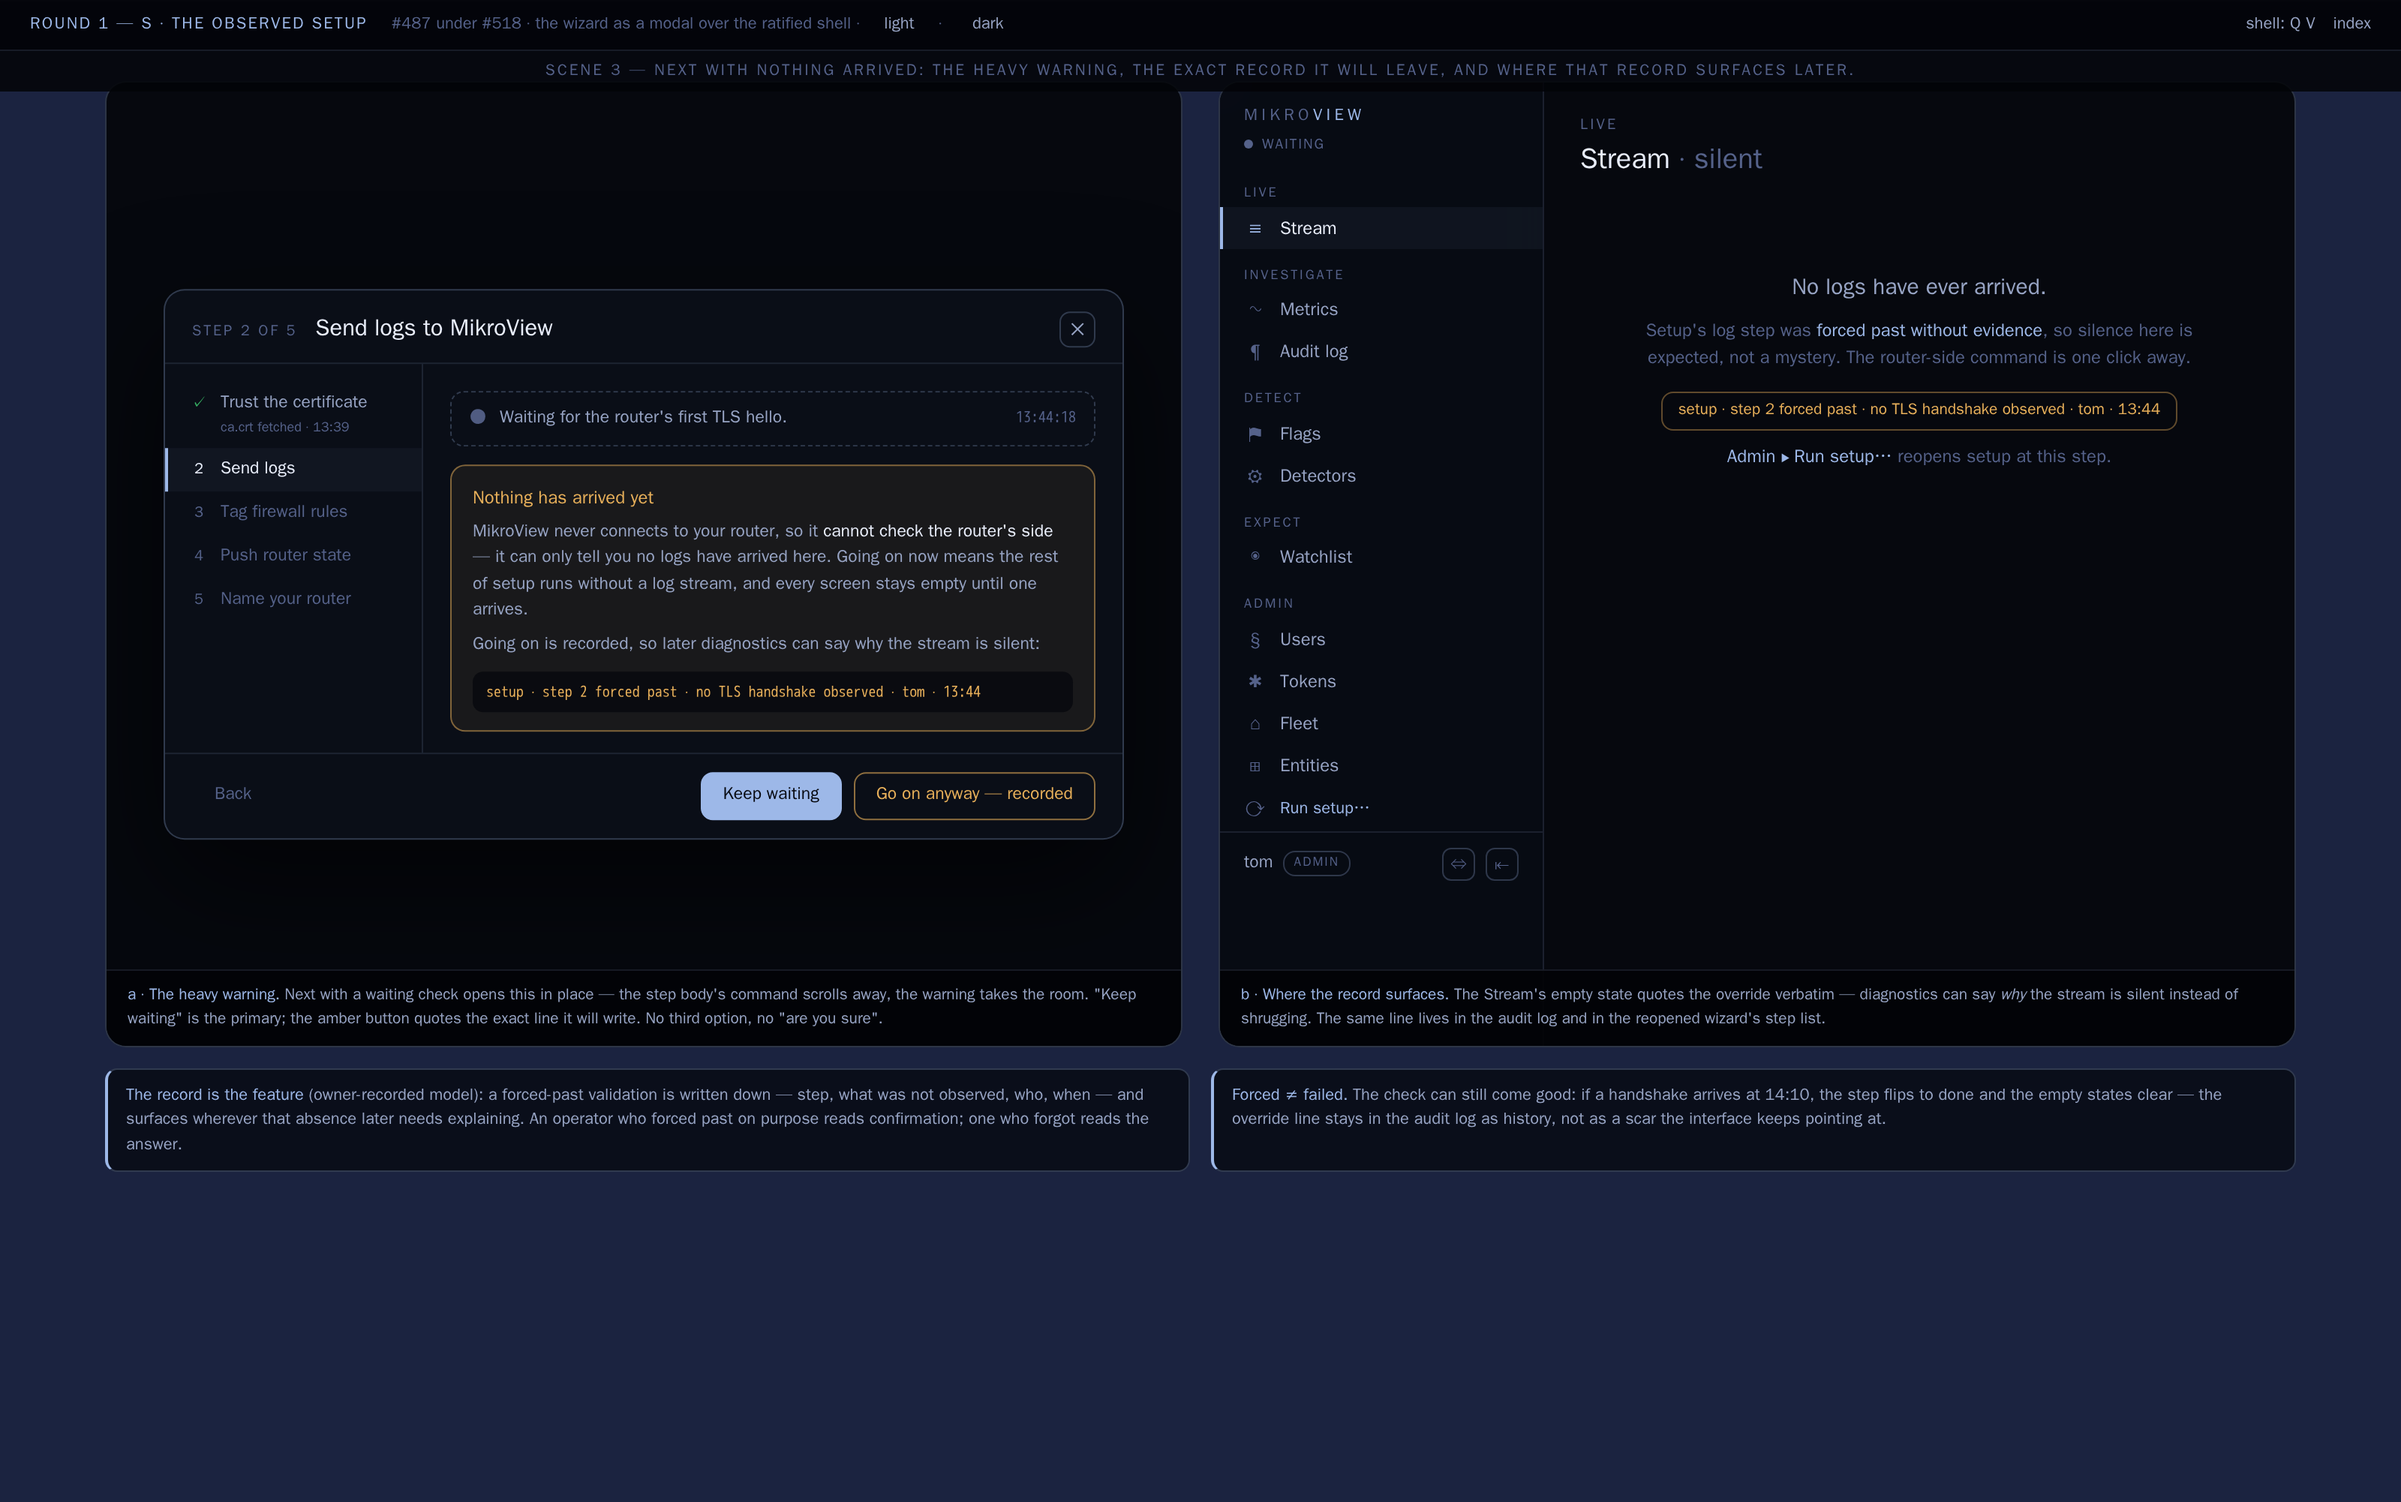
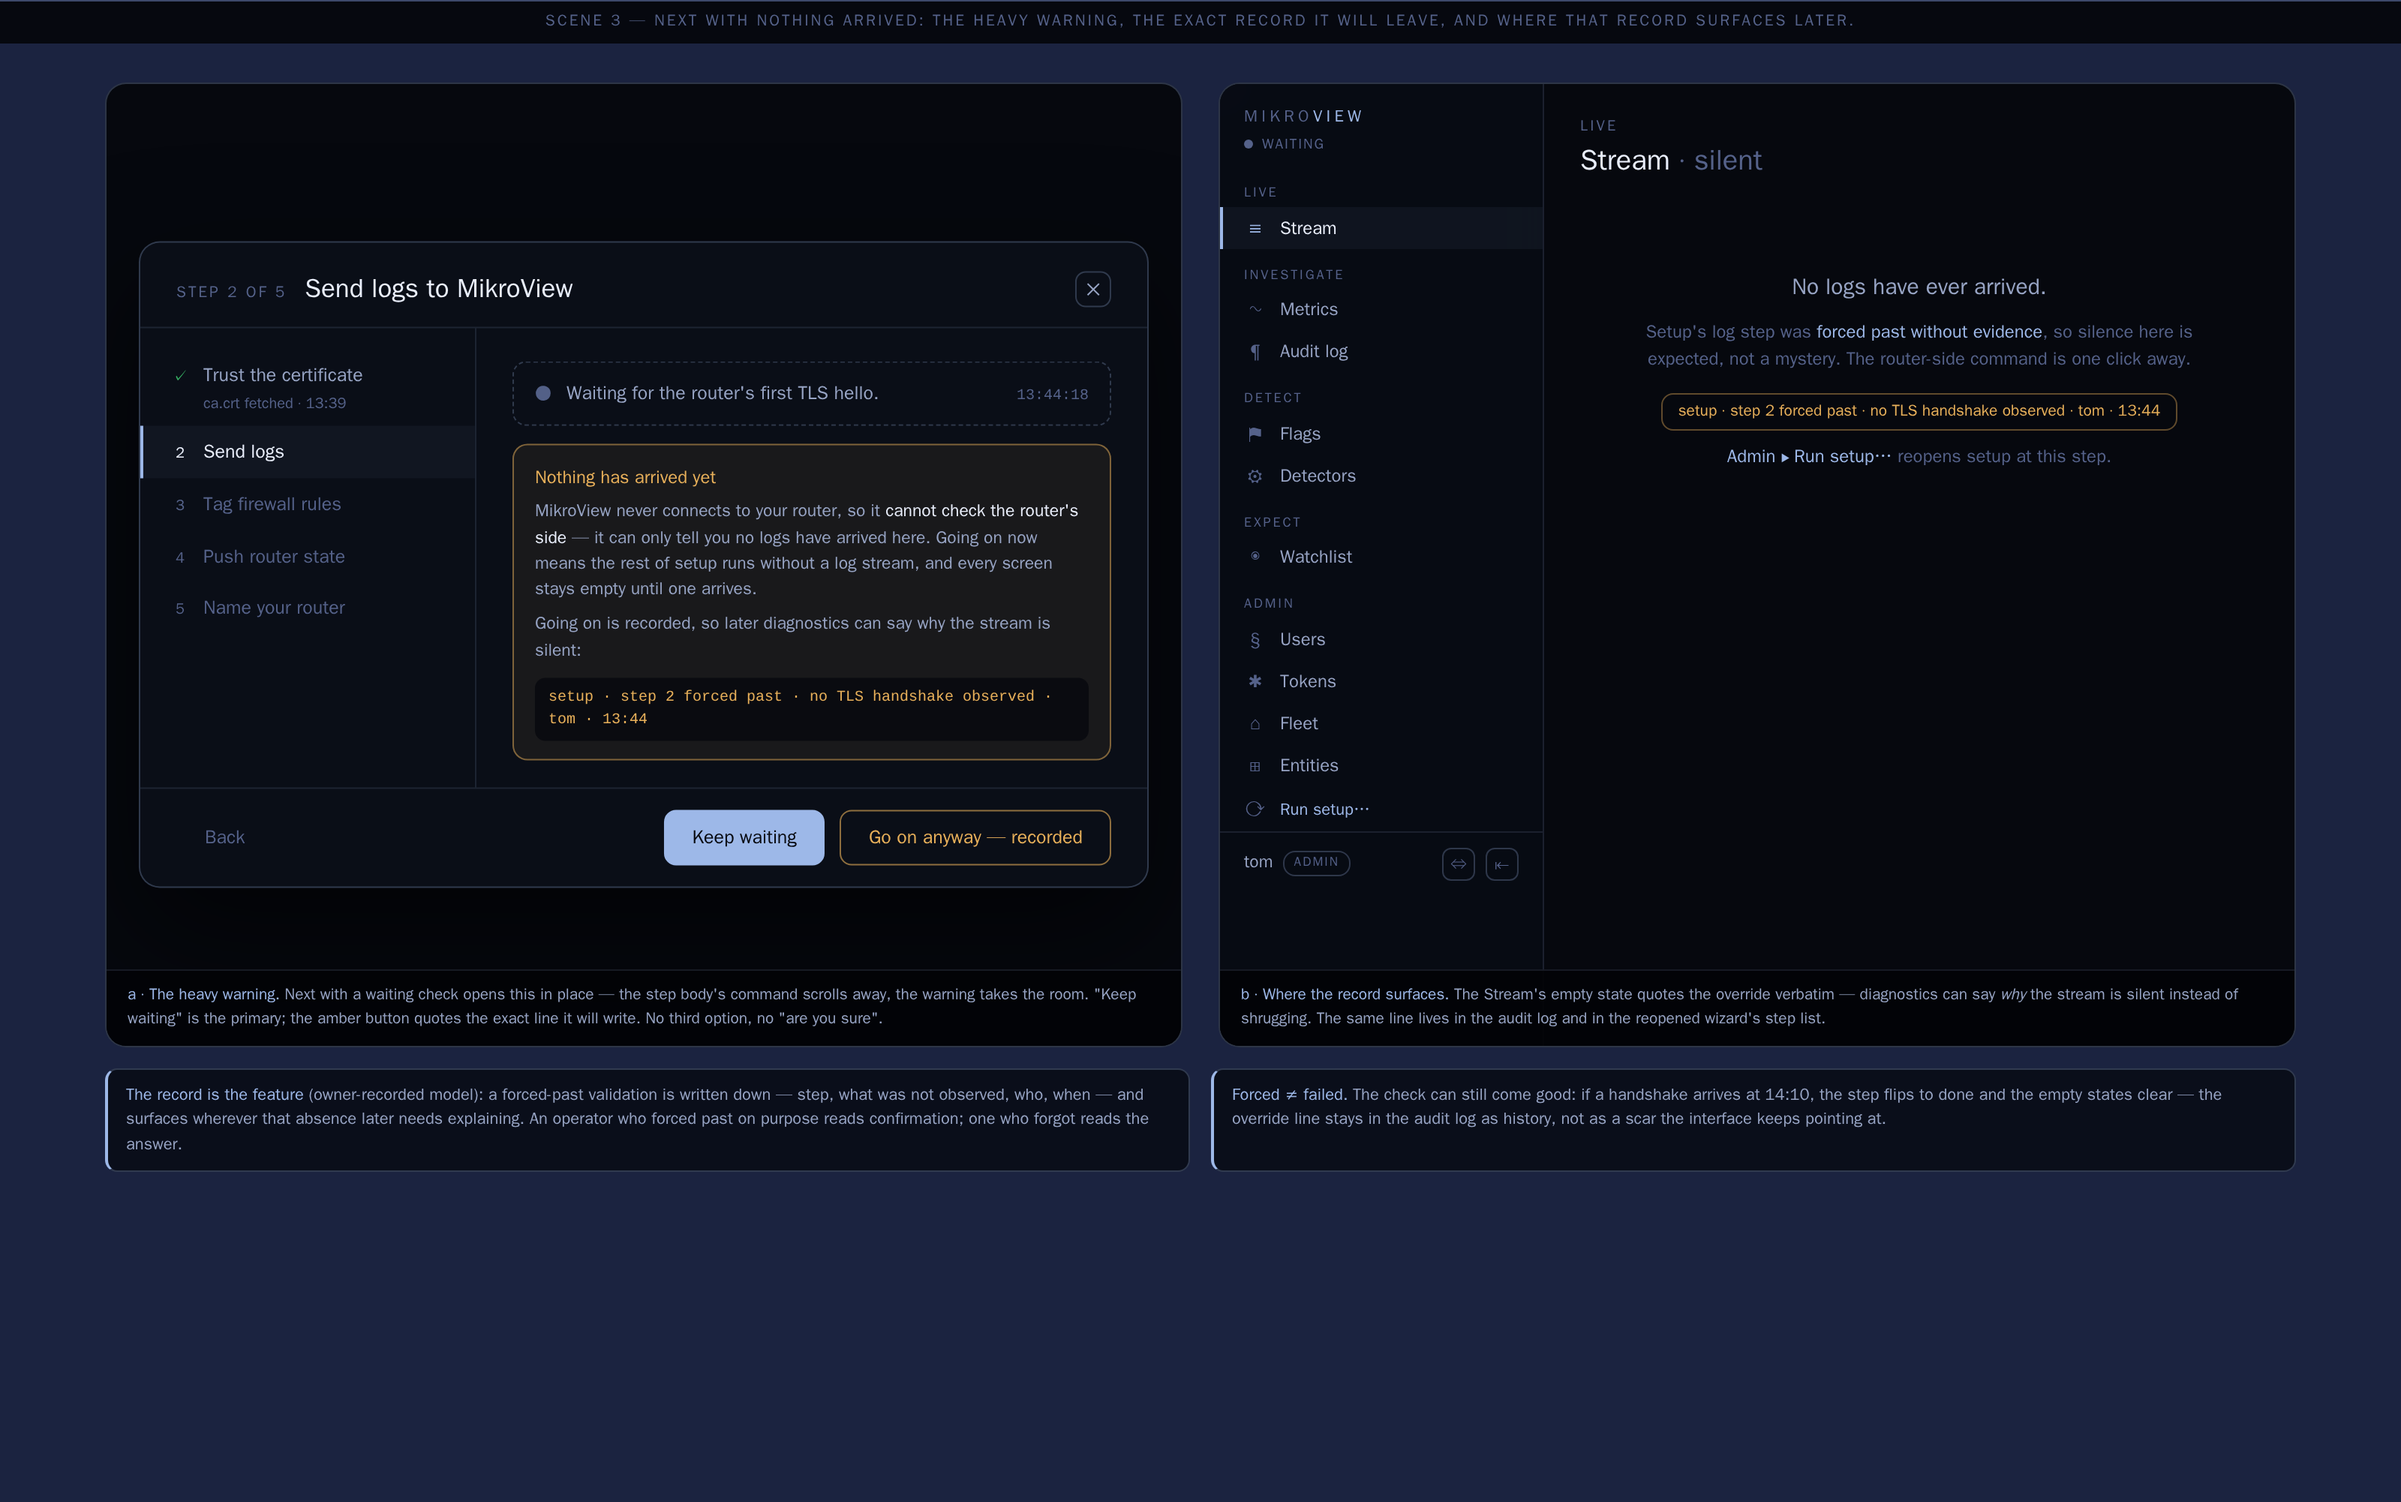
Wizard round 1: record the verdict, grow the modal (#487)
Owner accepted direction S with a size correction — use more of the
screen. Modal 640px -> 940px, wider step list, type and spacing up;
scene 2 rearranged (two frames plus a full-width third) so the close-
ups keep room; capture pins the sticky bars during shots. Verdict
verbatim in the round README.

diff --git a/docs/design/screens/wizard/round-1/direction-s-wizard.html b/docs/design/screens/wizard/round-1/direction-s-wizard.html
@@ -105,33 +105,33 @@
   .veil { position: absolute; inset: 0; background: rgba(3, 5, 10, 0.62); z-index: 20; backdrop-filter: blur(2.5px); }
   .wiz {
     position: absolute; z-index: 25; left: 50%; top: 50%; transform: translate(-50%, -50%);
-    width: min(640px, 92%); max-height: 88%; display: flex; flex-direction: column;
+    width: min(940px, 94%); max-height: 92%; display: flex; flex-direction: column;
     background: rgba(10, 14, 24, 0.97); border: 1px solid var(--hair-2); border-radius: 14px;
     box-shadow: 0 30px 80px rgba(0,0,0,0.6);
   }
-  .wiz .whead { display: flex; align-items: baseline; gap: 12px; padding: 14px 18px 10px; border-bottom: 1px solid var(--hair); }
-  .wiz .whead .step { font-size: 10px; letter-spacing: 0.14em; text-transform: uppercase; color: var(--ink-3); font-weight: 650; }
-  .wiz .whead h3 { font-size: 15.5px; font-weight: 600; }
+  .wiz .whead { display: flex; align-items: baseline; gap: 12px; padding: 18px 24px 12px; border-bottom: 1px solid var(--hair); }
+  .wiz .whead .step { font-size: 10.5px; letter-spacing: 0.14em; text-transform: uppercase; color: var(--ink-3); font-weight: 650; }
+  .wiz .whead h3 { font-size: 17.5px; font-weight: 600; }
   .wiz .whead .x { margin-left: auto; align-self: center; width: 24px; height: 24px; border: 1px solid var(--hair-2); border-radius: 7px; display: grid; place-items: center; color: var(--ink-2); font-size: 12px; }
   .wbody { display: flex; min-height: 0; flex: 1; }
-  .wsteps { width: 172px; flex: none; border-right: 1px solid var(--hair); padding: 12px 0; }
-  .ws { display: flex; gap: 8px; align-items: baseline; padding: 6px 14px; font-size: 11.5px; color: var(--ink-3); border-left: 2px solid transparent; }
+  .wsteps { width: 224px; flex: none; border-right: 1px solid var(--hair); padding: 14px 0; }
+  .ws { display: flex; gap: 9px; align-items: baseline; padding: 8px 18px; font-size: 12.5px; color: var(--ink-3); border-left: 2px solid transparent; }
   .ws .st { width: 13px; flex: none; text-align: center; font-size: 10px; }
   .ws.done { color: var(--ink-2); } .ws.done .st { color: var(--ok); }
   .ws.on { color: var(--ink); border-left-color: var(--accent); background: rgba(157,184,232,0.05); }
   .ws.forced { color: var(--ink-2); } .ws.forced .st { color: var(--warn); }
   .ws.skipped .st { color: var(--ink-3); }
-  .ws .sub { display: block; font-size: 9px; color: var(--ink-3); margin-top: 1px; }
+  .ws .sub { display: block; font-size: 10px; color: var(--ink-3); margin-top: 1px; }
   .ws.forced .sub { color: var(--warn); }
-  .wmain { flex: 1; padding: 16px 18px 14px; min-width: 0; overflow: hidden; }
-  .wmain .lead { font-size: 12.5px; color: var(--ink-2); }
+  .wmain { flex: 1; padding: 20px 24px 18px; min-width: 0; overflow: hidden; }
+  .wmain .lead { font-size: 13.5px; color: var(--ink-2); }
   .wmain .lead b { color: var(--ink); font-weight: 600; }
-  .cmd { font: 10.5px/1.6 var(--mono); color: var(--ink-2); background: rgba(4,6,11,0.9); border: 1px solid var(--hair); border-radius: 9px; padding: 10px 12px; margin-top: 10px; overflow-x: auto; white-space: pre; }
+  .cmd { font: 11.5px/1.65 var(--mono); color: var(--ink-2); background: rgba(4,6,11,0.9); border: 1px solid var(--hair); border-radius: 9px; padding: 12px 14px; margin-top: 12px; overflow-x: auto; white-space: pre; }
   .cmd .cm { color: var(--ink-3); }
   .cmd .hi { color: var(--accent); }
   .copy { font-size: 10px; color: var(--ink-2); border: 1px solid var(--hair-2); border-radius: 6px; padding: 2px 8px; margin-top: 7px; display: inline-block; }
   /* the observation line — the step's evidence, always visible, always dated */
-  .obs { display: flex; gap: 9px; align-items: baseline; margin-top: 12px; padding: 9px 12px; border-radius: 9px; font-size: 11.5px; }
+  .obs { display: flex; gap: 10px; align-items: baseline; margin-top: 14px; padding: 11px 14px; border-radius: 9px; font-size: 12.5px; }
   .obs .st { flex: none; font-size: 11px; }
   .obs.waiting { border: 1px dashed var(--hair-2); color: var(--ink-2); }
   .obs.waiting .st { color: var(--ink-3); animation: pulse 2s ease-in-out infinite; }
@@ -145,8 +145,8 @@
   .warncard p { font-size: 11.5px; color: var(--ink-2); margin-top: 6px; }
   .warncard p b { color: var(--ink); font-weight: 600; }
   .warncard .rec { font-family: var(--mono); font-size: 10px; color: var(--warn); background: rgba(4,6,11,0.7); border-radius: 7px; padding: 6px 9px; margin-top: 9px; }
-  .wfoot { display: flex; gap: 8px; align-items: center; padding: 12px 18px; border-top: 1px solid var(--hair); }
-  .btn { font-size: 11.5px; font-weight: 600; border-radius: 8px; padding: 6px 14px; border: 1px solid var(--hair-2); color: var(--ink-2); }
+  .wfoot { display: flex; gap: 10px; align-items: center; padding: 14px 24px; border-top: 1px solid var(--hair); }
+  .btn { font-size: 12.5px; font-weight: 600; border-radius: 8px; padding: 8px 18px; border: 1px solid var(--hair-2); color: var(--ink-2); }
   .btn.primary { background: var(--accent); color: var(--void); border-color: var(--accent); }
   .btn.ghost { border-color: transparent; color: var(--ink-3); }
   .btn.warn { border-color: rgba(232,176,90,0.6); color: var(--warn); }
@@ -318,7 +318,8 @@
       </div>
       <div class="cap"><b>b · Arrived.</b> The same step, evidence in: who, what, when. The step list will remember the receipt ("ca.crt fetched · 13:39") for the rest of the wizard's life — and Next simply proceeds.</div>
     </div>
-    <div class="frame">
+  </div>
+  <div class="frame wide">
       <div class="main">
         <div class="wiz">
           <div class="whead"><span class="step">Step 4 of 5</span><h3>Push router state</h3><span class="x" role="button" aria-label="Close setup — finish later from Admin ▸ Run setup…">✕</span></div>
@@ -348,7 +349,6 @@
         </div>
       </div>
       <div class="cap"><b>c · The one step that takes input.</b> Step 4 acts (a token is created on Next-entry — mikroview-side, its own audit line) then returns to form: print the command, watch for arrival. Same anatomy, same observation line.</div>
-    </div>
   </div>
   <div class="notes">
     <div class="anno"><b>One anatomy, five steps.</b> Lead sentence · the router-side command · the observation line. Step 3 (tag rules) is the pure case — it can never fail, only count upward; its Next is always free. The anatomy holds even for step 4's input, which is why the modal never feels like five different dialogs.</div>

diff --git a/docs/design/screens/wizard/round-1/README.md b/docs/design/screens/wizard/round-1/README.md
@@ -46,4 +46,10 @@ the existing `--warn` amber for forced-past.
 
 ## Verdicts
 
-Pending — round not yet reviewed by the owner.
+Owner, 2026-08-23, on direction S: **"Wizard looks great, but use more
+of the screen, no need to squash things in."** — accepted, with a size
+correction. Applied in this round's files the same session: the modal
+grew from 640px to 940px (94% cap), the step list to 224px, type and
+spacing up a notch throughout. The direction, anatomy and wording
+stand unchanged; direction S carries into the design record / round 2
+at the larger size.
